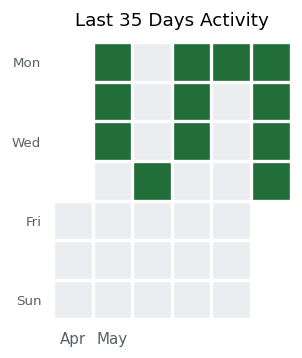
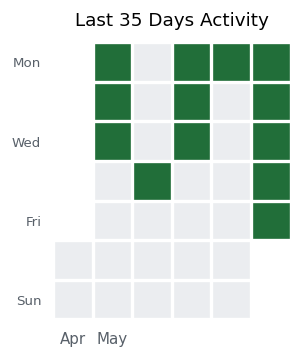
Lab Entry: 2026-05-29

Changed region(s): [[0.8344, 0.5531, 0.9834, 0.676]]

diff --git a/README.md b/README.md
@@ -1,7 +1,7 @@
-# 🏃 平均週 2.5 回でつーがく中！
+# 🏃 平均週 2.6 回でつーがく中！
 <p align="center">
   <img src="./monthly_report.png" alt="Attendance Calendar">
 </p>
 
 ___
-*最終更新: 2026-05-28*
+*最終更新: 2026-05-29*
